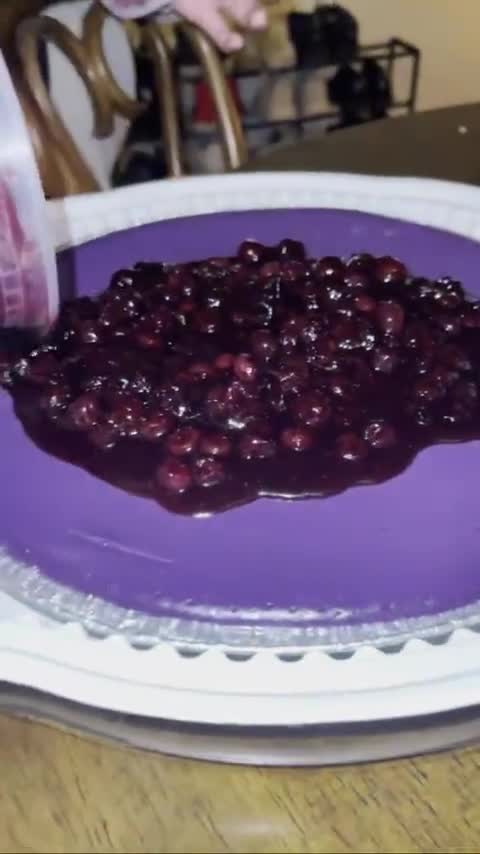
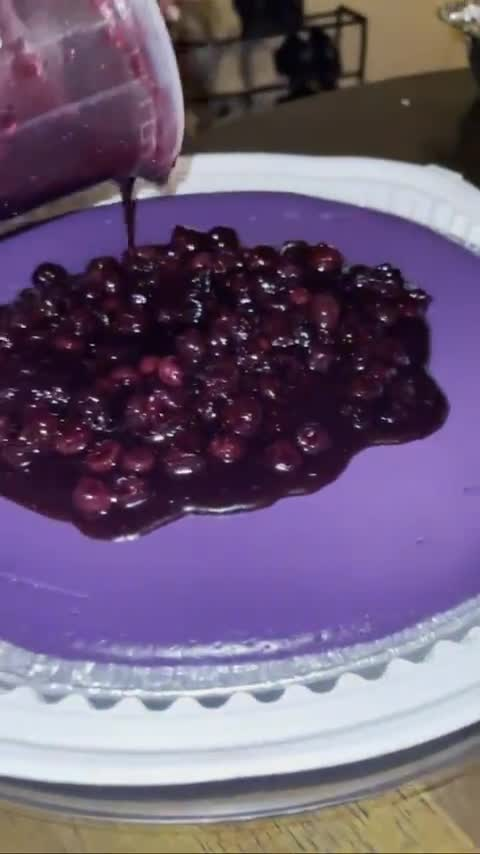
Gallery: portrait feature frame, square raspberry tile, shorter syrup video

diff --git a/src/components/Gallery.module.css b/src/components/Gallery.module.css
@@ -13,20 +13,20 @@
 .grid {
   display: grid;
   grid-template-columns: repeat(4, 1fr);
-  grid-template-rows: repeat(12, 96px);
+  grid-template-rows: repeat(12, 130px);
   grid-template-areas:
     'a a b c'
     'a a b c'
-    'a a b c'
-    'e d b i'
-    'e d j i'
-    'e d j i'
-    'e f f i'
-    'g f f h'
-    'g k m h'
-    'g k m h'
-    'l k m n'
-    'l k m n';
+    'a a b d'
+    'a a b d'
+    'a a f d'
+    'g i f m'
+    'g i h m'
+    'g i h m'
+    'l i h m'
+    'l j k e'
+    'n j k e'
+    'n j k e';
   gap: 1.4rem;
   margin-top: 2.5rem;
 }
@@ -230,10 +230,11 @@
     aspect-ratio: 3 / 4;
   }
 
-  /* the dog photo and the two videos are near-9:16 — keep them tall */
+  /* the dog photo, the cutting video, and the in-hand shot are near-9:16 —
+     keep them tall */
   .item:nth-child(2),
-  .item:nth-child(5),
-  .item:nth-child(9) {
+  .item:nth-child(9),
+  .item:nth-child(13) {
     aspect-ratio: 9 / 16;
     grid-row: span 2;
   }